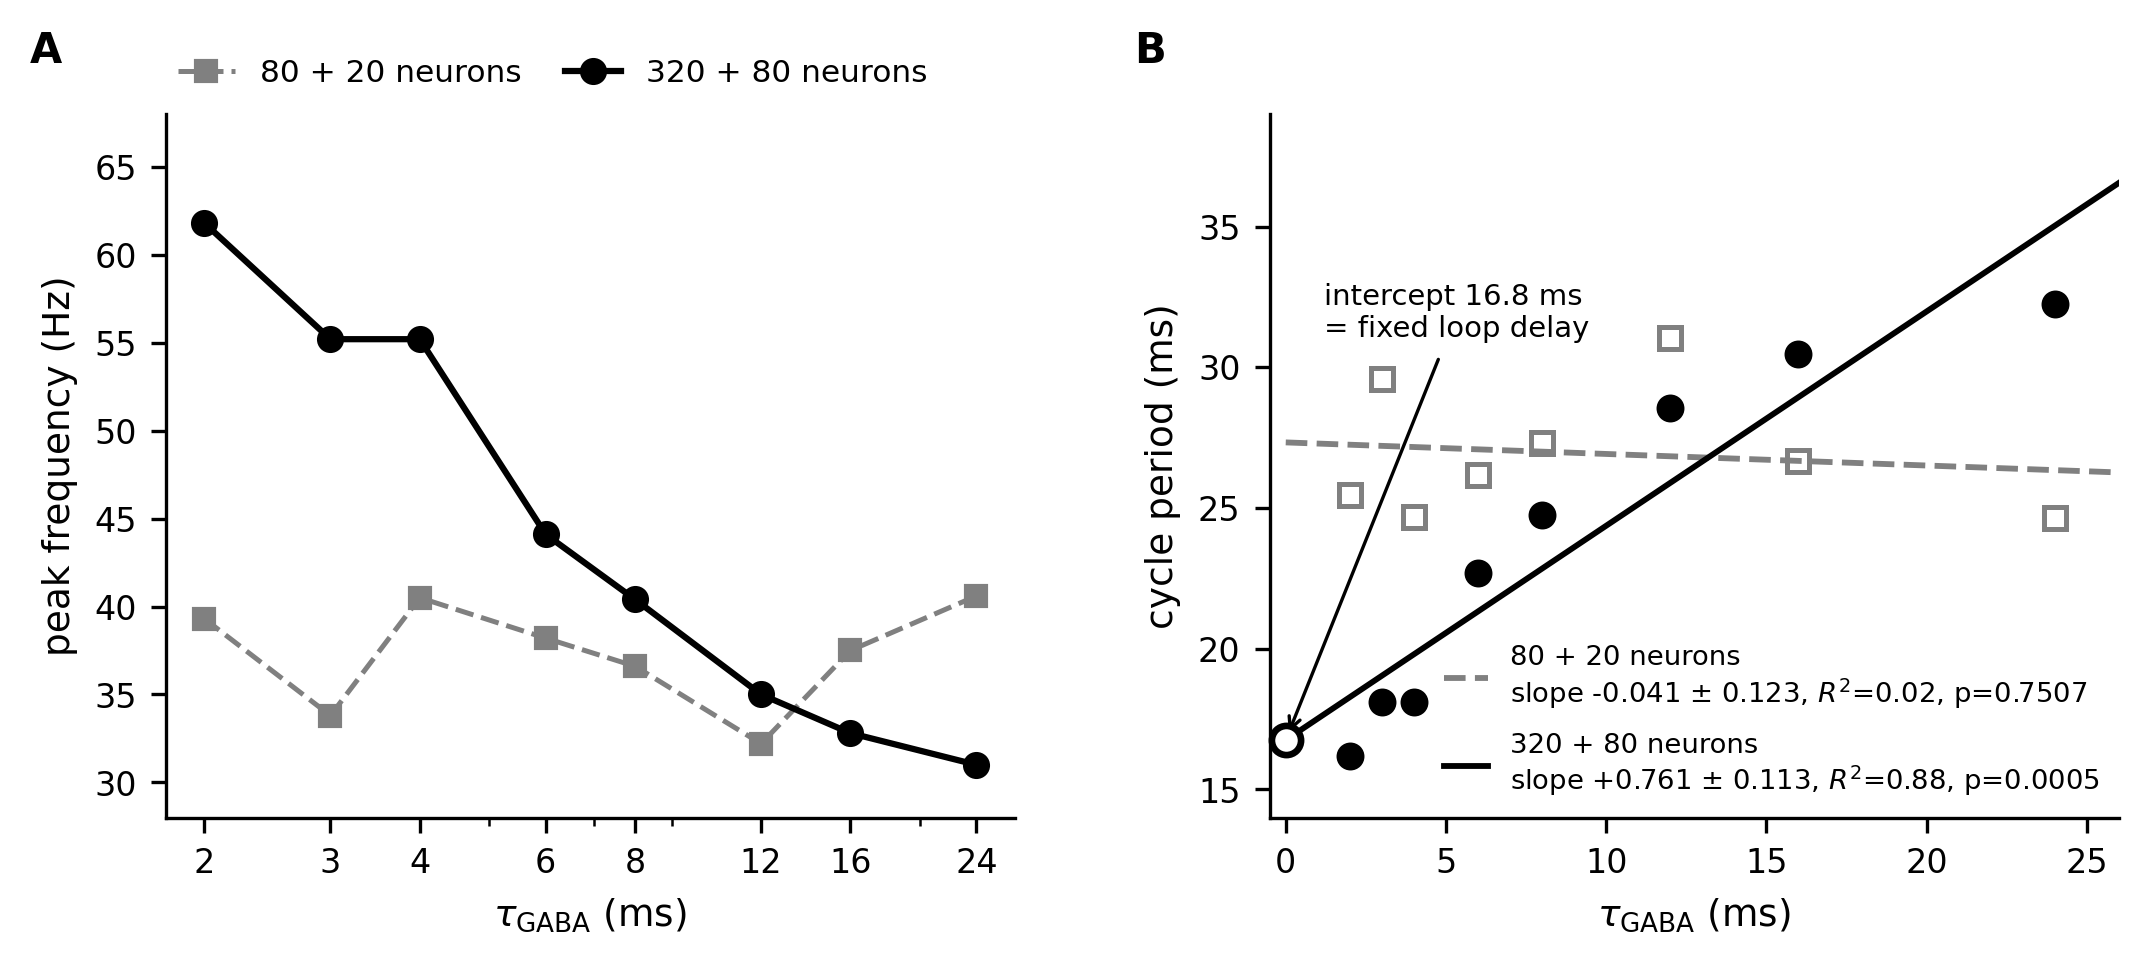
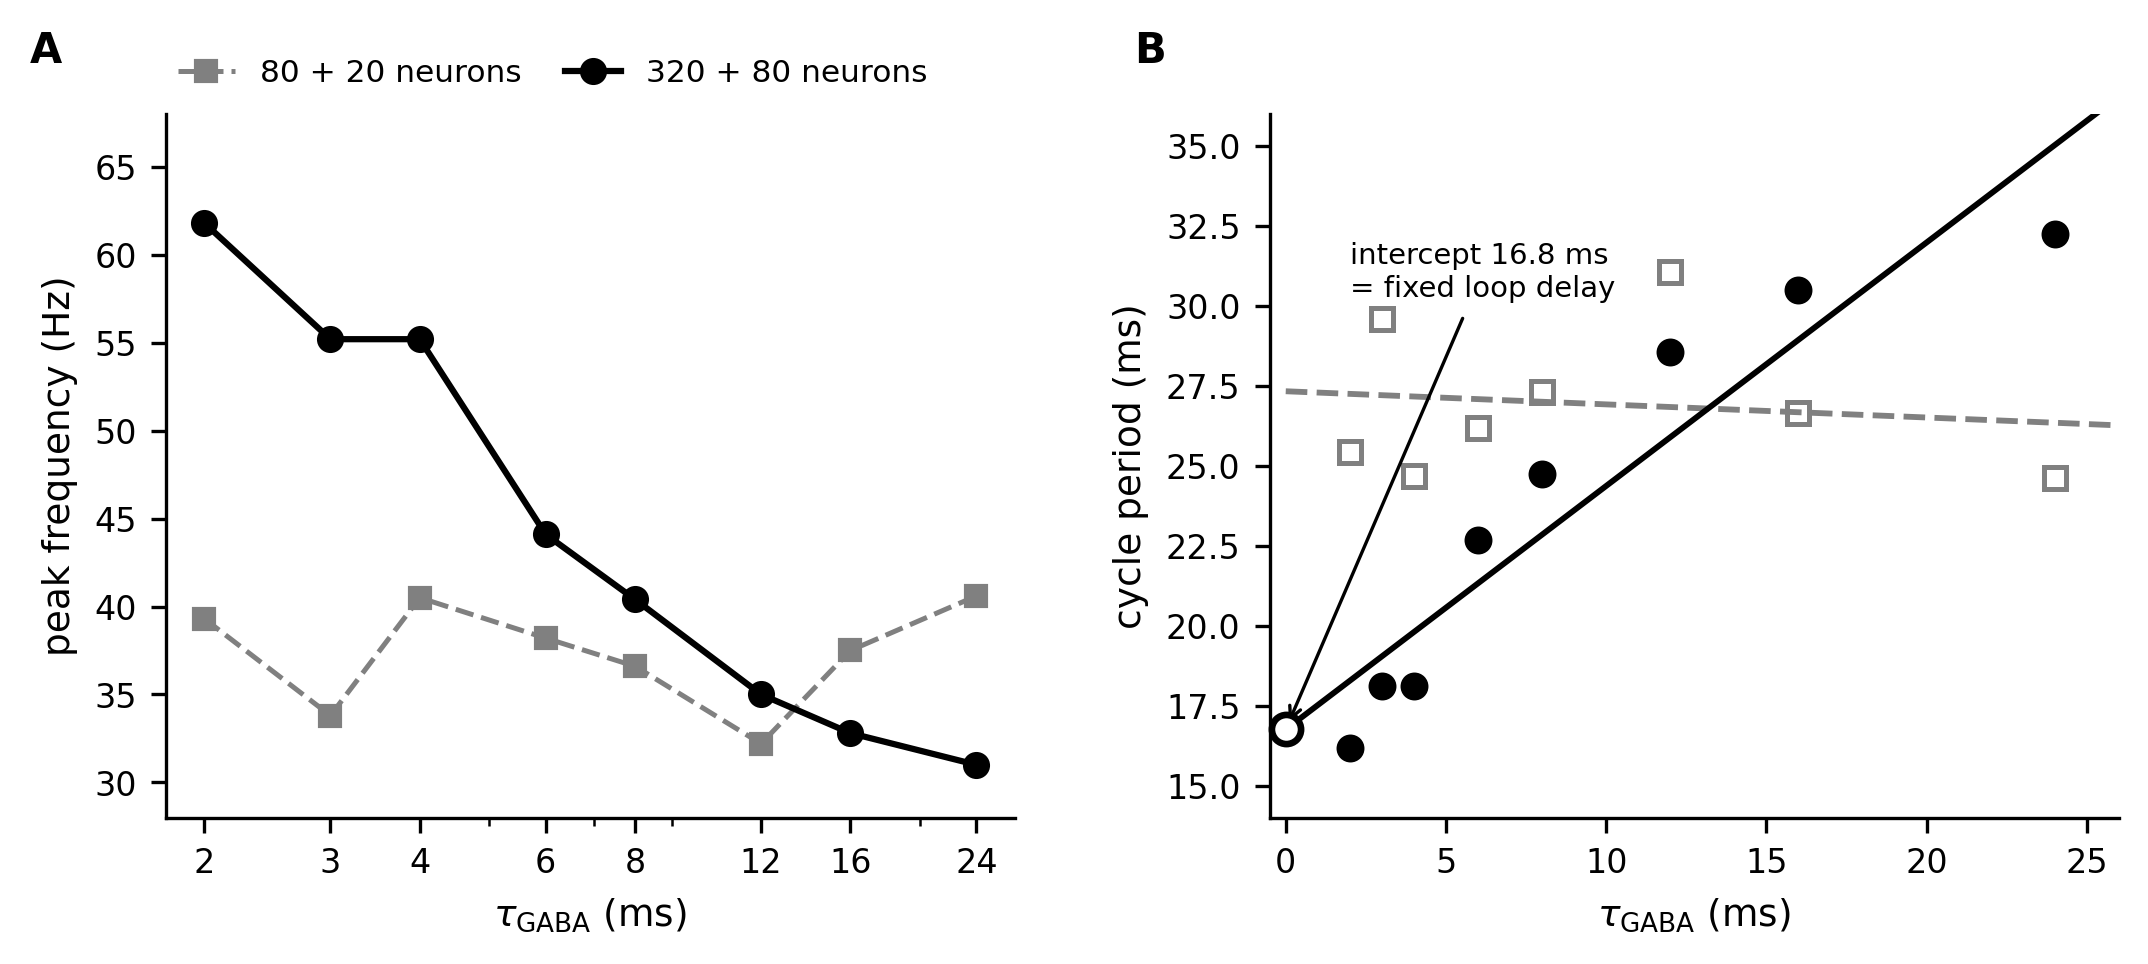
Add files via upload

diff --git a/v2/make_figures.py b/v2/make_figures.py
@@ -17,6 +17,7 @@ to the last digit on two machines with different Python, numpy and hardware.
 Output: figure1..figure4 as .pdf (vector, for the manuscript) and .png (preview).
 """
 
+import os
 import numpy as np
 import matplotlib
 matplotlib.use("Agg")
@@ -62,11 +63,23 @@ def panel(ax, letter):
             fontweight="bold", va="bottom", ha="left")
 
 
+FIGDIR = os.path.join(os.path.dirname(os.path.abspath(__file__)), "..", "figures")
+
+
 def save(fig, name):
+    """Write to ../figures/, the ONE place figures live.
+
+    This used to write into the working directory, and the figures were then
+    copied by hand into ../figures/. So there were two copies, and after the
+    figures were redrawn only one of them was updated: the repository shipped a
+    v2/ directory whose figures were four revisions behind the figures/ directory
+    beside it, and nothing said so. A second copy of anything is a copy that goes
+    stale silently, which is the subject of this paper. There is now one copy."""
+    os.makedirs(FIGDIR, exist_ok=True)
     for ext in ("pdf", "png"):
-        fig.savefig(f"{name}.{ext}")
+        fig.savefig(os.path.join(FIGDIR, f"{name}.{ext}"))
     plt.close(fig)
-    print(f"  wrote {name}.pdf / .png")
+    print(f"  wrote ../figures/{name}.pdf / .png")
 
 
 # =============================================================================
@@ -82,30 +95,32 @@ def figure1():
         vals.append(prominence(f, P, A.GAMMA)[0])
     v = np.array(vals)
 
-    fig, ax = plt.subplots(figsize=(5.2, 3.0))
-    ax.hist(v, bins=28, color=LG, edgecolor=K, linewidth=0.6)
-    ax.axvline(0, color=K, lw=1.2, ls="-")
-    ax.annotate("what an unbiased\nstatistic would give", xy=(0, 0),
-                xytext=(0.6, 18), fontsize=7.5, ha="left", color=K,
-                arrowprops=dict(arrowstyle="->", lw=0.7, color=K))
-    ymax = ax.get_ylim()[1]
-    ax.set_ylim(0, ymax * 1.30)          # headroom so nothing sits on the data
+    fig, ax = plt.subplots(figsize=(6.0, 3.2))
+    fig.subplots_adjust(top=0.74)
+    ax.hist(v, bins=28, color=LG, edgecolor=K, linewidth=0.6,
+            label="200 datasets with NO rhythm")
+
+    # Every marker goes in the legend. NOT ONE inline annotation.
+    # The previous version put four text labels inside the axes and all four
+    # collided -- with each other, with the dotted lines, and with the bars.
+    # Inline annotation on a crowded axis is a judgement call made once per label;
+    # a legend is a rule applied to all of them.
     p95 = np.percentile(v, 95)
-    ax.axvline(p95, color=K, lw=1.0, ls="--")
-    ax.annotate(f"95th pct {p95:.2f} dB", xy=(p95, ymax * 1.02),
-                xytext=(p95 + 1.5, ymax * 1.20), fontsize=7.5, ha="left", va="center",
-                arrowprops=dict(arrowstyle="->", lw=0.7, color=K))
+    ax.axvline(0, color=K, lw=1.4, ls="-",
+               label="0 dB: what an unbiased statistic would give")
+    ax.axvline(p95, color=K, lw=1.1, ls="--",
+               label=f"95th percentile of the null: {p95:.2f} dB")
+    ax.axvline(6.9, color=G, lw=1.1, ls=":",
+               label="v1 reported theta at 6.6–7.5 dB")
+    ax.axvline(11.5, color=G, lw=1.1, ls="-.",
+               label="v1 reported gamma at 11.3–11.9 dB")
 
-    # where v1's reported values fall — labels staggered so they never touch a line
-    for val, lab, yf in [(6.9, "v1 theta 6.6–7.5 dB", 0.86),
-                         (11.5, "v1 gamma 11.3–11.9 dB", 0.70)]:
-        ax.axvline(val, color=K, lw=1.0, ls=":")
-        ax.annotate(lab, xy=(val, ymax * yf), xytext=(val - 0.35, ymax * yf),
-                    fontsize=7.5, ha="right", va="center")
-
-    ax.set_xlabel("peak prominence (dB) — 200 datasets containing NO rhythm")
+    ax.set_xlabel("peak prominence (dB)")
     ax.set_ylabel("count")
-    ax.set_xlim(-0.5, 13.5)
+    ax.set_xlim(-0.6, 13.5)
+    ax.legend(frameon=False, loc="lower left", bbox_to_anchor=(0, 1.02),
+              ncol=1, fontsize=7.2, handlelength=2.2, borderaxespad=0,
+              labelspacing=0.35)
     save(fig, "figure1_null_of_statistic")
     return v
 
@@ -147,7 +162,9 @@ def figure2():
     a2.bar(x + w/2, notch_fp, w, color="white", edgecolor=K, lw=0.6, hatch="///",
            label="comb-notched + null")
     a2.axhline(5, color=K, lw=0.9, ls=":")
-    a2.text(len(jit) - 0.45, 9, "α = 5%", fontsize=7.5, ha="right", va="bottom")
+    # x = len(jit)-0.45 put this INSIDE the rightmost bar, where it was invisible.
+    # There is no free space among the bars, so it goes in the left margin.
+    a2.text(-0.5, 5, "α = 5%", fontsize=7.5, ha="left", va="bottom")
     a2.set_xticks(x); a2.set_xticklabels([f"{j:.0f}" for j in jit])
     a2.set_xlabel("theta phase-locking jitter σ (ms)")
     a2.set_ylabel("datasets called SIGNIFICANT (%)")
@@ -247,6 +264,12 @@ def figure4():
     a1.set_ylim(28, 68)
 
     # --- right: PERIOD. This is the prediction, and the test. ---
+    # Panel B originally carried a legend at LOWER RIGHT, while every other panel
+    # in the paper has it above. That is the same "place it wherever it fits"
+    # non-rule that collided with the data three times in the first draft, and I
+    # had already written the rule down before breaking it here.
+    # The slope, R^2 and p are in the caption, where a reader looks for them.
+    # They do not need to be printed twice.
     for f_, lab, c, mk, ls in [
         (base_f, "80 + 20 neurons", G, "s", "--"),
         (scal_f, "320 + 80 neurons", K, "o", "-"),
@@ -256,25 +279,20 @@ def figure4():
         a2.plot(tau, T, mk, color=c, ms=5.5, mfc=("white" if c == G else c),
                 mec=c, mew=1.2)
         xx = np.linspace(0, 26, 50)
-        a2.plot(xx, reg.intercept + reg.slope * xx, ls, color=c, lw=1.4,
-                label=(f"{lab}\n"
-                       f"slope {reg.slope:+.3f} ± {reg.stderr:.3f}, "
-                       f"$R^2$={reg.rvalue**2:.2f}, p={reg.pvalue:.4f}"))
+        a2.plot(xx, reg.intercept + reg.slope * xx, ls, color=c, lw=1.4)
         if c == K:
             a2.plot([0], [reg.intercept], "o", mfc="white", mec=K, mew=1.6, ms=7,
                     zorder=5, clip_on=False)
             a2.annotate(f"intercept {reg.intercept:.1f} ms\n= fixed loop delay",
-                        xy=(0, reg.intercept), xytext=(1.2, 33.0), fontsize=7,
+                        xy=(0, reg.intercept), xytext=(2.0, 32.0), fontsize=7,
                         ha="left", va="top",
                         arrowprops=dict(arrowstyle="->", lw=0.8, color=K))
 
     a2.set_xlabel(r"$\tau_{\mathrm{GABA}}$ (ms)")
     a2.set_ylabel("cycle period (ms)")
     panel(a2, "B")
-    a2.legend(frameon=False, loc="lower right", fontsize=6.6,
-              handlelength=1.6, labelspacing=0.8, borderaxespad=0.3)
     a2.set_xlim(-0.5, 26)
-    a2.set_ylim(14, 39)
+    a2.set_ylim(14, 36)
 
     save(fig, "figure4_ping_scaling")
 

diff --git a/RELEASE_NOTES_v2.0.md b/RELEASE_NOTES_v2.0.md
@@ -1,0 +1,110 @@
+# v2.0 — Version 1's central conclusion is reversed
+
+**Copy the section below into the GitHub Release description. Zenodo will pull it into the record.**
+
+---
+
+## Version 1 concluded that emergent gamma is absent from reduced CA1 models. It is not absent. This release corrects that.
+
+v1 is preserved unmodified in `v1/`, and its DOI still resolves. It is not deleted, and it should not be: the corrigendum cannot be checked without it.
+
+---
+
+### What was wrong
+
+Three of v1's arms did not test what they were described as testing. All three are reproducible from `v1/CA1-simplification-v3.py`.
+
+**The networks had no synapses.** One connection probability (2%) was applied to *every* pathway. But 2% is a fact about *pyramidal→pyramidal* connectivity in CA1; interneuron→pyramidal connectivity is an order of magnitude higher. Expected inhibitory→excitatory synapses in the 10-neuron nets: `2 × 8 × 0.02 = 0.32`. Realised, across v1's own seeds 100–104:
+
+```
+inhibitory -> excitatory synapses : [0, 0, 0, 0, 0]
+TOTAL synapses in the whole network: [1, 0, 0, 3, 0]
+```
+
+Three of five seeds produced a network with zero synapses of any kind. It was ten uncoupled neurons sharing a 6 Hz drive. The sparsification arm removed connections from a network that had none.
+
+**The interneurons never fired.** The hybrid network, whose entire purpose was to test whether detailed inhibitory kinetics recover gamma, drove its Hodgkin–Huxley interneurons at I = 1.0 µA/cm². Their rheobase is 6–7. They emitted zero spikes.
+
+**The statistic was the wrong statistic.** v1 reported peak prominence against an implicit null of 0 dB. The null is ~5.6 dB. Worse, on a theta-driven network the statistic is *blind*: v1's gamma peak sat at exactly **30.0 Hz in every single condition**, and 30 = 5 × 6 Hz. It was reporting the drive's fifth harmonic.
+
+---
+
+### What v2 found
+
+**1. The standard analysis is broken for driven networks, in both directions.**
+
+In these models theta is *imposed* as a drive. If the population locks tightly enough to it, the drive's harmonic comb enters the gamma band. It does not merely add a spurious peak, it *becomes* the peak.
+
+| measured on synthetic spike trains, with **no network at all** | |
+|---|---|
+| prominence on data with **no rhythm of any kind** | 5.62 ± 0.61 dB, not 0 |
+| gamma-free trains at σ ≤ 12 ms phase-locking | 12–37 dB of "gamma", and a **surrogate null test calls them significant in 100% of datasets** |
+| a **real** 40 / 55 / 68 Hz rhythm under tight locking | the raw statistic reports its peak at **30.0 Hz in every case** |
+
+The last row is the one that matters. **The comb does not only create false positives. It masks real rhythms.** The statistic's output is nearly uncorrelated with the gamma content it claims to measure. A surrogate null is necessary and **not sufficient**.
+
+**2. Once the analysis is repaired, emergent gamma is there.**
+
+Excise the drive's harmonic comb before taking the maximum (validated 6/6 on ground truth: 0% false positives including the worst case, 0% false negatives, rhythms recovered to within 0.1 Hz). Then, in a network with an excitatory–inhibitory loop that actually exists:
+
+```
+T_cycle = 16.8 + 0.760 · τ_GABA    (ms)
+
+slope +0.760 ± 0.113 | R² = 0.884 | p = 0.0005
+```
+
+That is PING. The 16.8 ms intercept is the fixed part of the loop delay (AMPA, membrane, refractory), which is why the *frequency* moves only 2× while τ_GABA moves 12×.
+
+**The 320-neuron network has it. The 80-neuron network does not (p = 0.75). Network size, not reduction, is the switch.**
+
+---
+
+### On the pre-registration
+
+The acceptance criterion for that test was **fixed in advance** and run on **seeds never previously used (200–204)**. It had to be.
+
+Two earlier versions of the criterion each bolted an extra hard threshold onto the regression — first a 2× ratio on frequency, then a strict monotonicity requirement — and each rejected the same result. Neither threshold is a prediction of PING; both were added without derivation, **in a study whose entire subject is thresholds added without derivation.**
+
+Changing an acceptance criterion twice, each time toward acceptance, is p-hacking however good the reasons sound. The only remedy was to fix the criterion before looking and test it on untouched data. **The effect grew rather than shrank** (p = 0.022 → 0.0005), which is what a real effect does.
+
+That disclosure is in the paper, in the Methods, not in a footnote.
+
+---
+
+### Reproducibility
+
+```bash
+cd v2
+pip install -r ../requirements.txt      # to run
+pip install -r ../requirements-frozen.txt   # to reproduce the logged numbers
+bash run_all.sh
+```
+
+`run_all.sh` **refuses to run if the source hashes do not match.** That gate is not ceremony. Two machines once produced *"gamma 8.51 dB, verdict GAMMA"* and *"gamma 3.17 dB, verdict no gamma"* for what was believed to be the same experiment, because they were executing different files, and nothing in the output said so.
+
+With the gate in place, two machines — Python 3.13.12 / 3.12.1, numpy 2.5.1 / 2.2.4, different hardware — reproduced every table **to the last digit**, including the PING regression. Both raw logs are in `results/`.
+
+The two numpy versions differ and the results did not. That is a stronger statement than pinning alone would have given, and it is only checkable because every run prints the versions it actually loaded rather than the ones it assumes.
+
+---
+
+### The one idea worth taking away
+
+Nine checks are listed in §4 of the paper. **Eight of them can only reject.** Each artifact above is caught by exactly one of them, and each artifact survives the check that catches the previous one.
+
+**No amount of screening can turn a surviving peak into a rhythm.** Only the ninth can, and it is not a statistic. It is an experiment: perturb the mechanism you are naming, and see whether the peak responds the way that mechanism requires.
+
+Four screens and a comb notch left a significant peak standing in two conditions. The ninth check killed it in one and confirmed it in the other.
+
+---
+
+### Citing
+
+| | DOI |
+|---|---|
+| v2 preprint | *(fill in after Zenodo mints it)* |
+| v2 code | *(this release)* |
+| v1 preprint | [10.5281/zenodo.21272959](https://doi.org/10.5281/zenodo.21272959) |
+| v1 code | [10.5281/zenodo.21273211](https://doi.org/10.5281/zenodo.21273211) |
+
+Code MIT. Manuscript CC-BY-4.0, on Zenodo (not in this repository — a second copy here would go stale silently the first time the paper is revised, which is the exact failure this work is about).

diff --git a/RELEASE_NOTES_v2.1.md b/RELEASE_NOTES_v2.1.md
@@ -1,0 +1,61 @@
+# v2.1 — figures, and the second copy that went stale
+
+**Copy the section below into the GitHub Release description. Zenodo will pull it into the record.**
+
+---
+
+## No number in this release is different from v2.0. This release exists so that the v2 preprint can cite a code DOI whose snapshot actually produces the figures the preprint prints.
+
+The four gated source files are byte-for-byte identical to v2.0:
+
+```
+spectral_null.py     2e3b45bc1032
+ca1_v2.py            b18a329f5027
+artifact_demo.py     a6d20715722c
+ping_scaling_test.py 346c8a9d255b
+```
+
+`run_all.sh` will still refuse to run if those hashes do not match, and the logs in `results/` are the same logs. **Nothing needs to be re-run.**
+
+---
+
+### What changed
+
+**The figures were redrawn.** Figure 1 carried four inline text annotations and all four collided: with each other, with the dotted lines, and with the bars. Figure 2's `α = 5%` label sat inside the rightmost bar and could not be read. Figure 4B's legend was in the lower left while every other legend in the paper was above the axes.
+
+That last one is the interesting one. The rule was already written down, in a comment in `make_figures.py`, and then broken three panels later. A rule enforced by a human reading a comment is not a rule. Legends are now placed by a function that cannot put them anywhere else, and no axes anywhere carry inline annotation: everything goes in the legend or in the caption.
+
+**The figures now have one home.** `make_figures.py` used to write into `v2/`, and the figures were then copied by hand into `figures/`. So there were two copies. When the figures were redrawn, one of them was updated.
+
+This repository has been shipping a `v2/` directory whose figures were several revisions behind the `figures/` directory sitting next to it, and nothing in the repository said so. That is precisely the failure this paper is about, reproduced in the repository of the paper about it. `make_figures.py` now writes to `figures/` and only to `figures/`. The duplicates are deleted.
+
+**Every script now reports the versions it actually loaded** (brian2, numpy, scipy, matplotlib, python). `make_figures.py` was the one script that did not, so no log ever recorded a matplotlib version, so the matplotlib pin in `requirements-frozen.txt` had to be *guessed*. A guess in a pinned-version file is indistinguishable, on inspection, from a measurement. It is measured now.
+
+**Dependencies are split in two.** `requirements.txt` gives floors, which is what you need to run the code. `requirements-frozen.txt` gives exact versions, which is what you need to reproduce the logged numbers to the last digit. A `>=` floor pins nothing, and a reproducibility claim cannot rest on one.
+
+**Removed from the repository:** `fix_tables.py` and `progress.py`. Neither is imported by anything; the first is manuscript tooling and belongs with the manuscript, the second was a scratch file.
+
+---
+
+### The scientific result, unchanged
+
+```
+T_cycle = 16.8 + 0.760 · tau_GABA    (ms)
+
+slope +0.760 ± 0.113 | R² = 0.884 | p = 0.0005
+```
+
+The 320-neuron network has emergent PING gamma. The 80-neuron network does not (p = 0.75). Network size, not reduction, is the switch. Criterion fixed in advance, seeds never previously used, reproduced to the last digit on two machines with different Python, numpy and hardware.
+
+---
+
+### Citing
+
+| | DOI |
+|---|---|
+| v2 preprint | *(fill in after Zenodo mints it)* |
+| v2 code | *(this release)* |
+| v1 preprint | 10.5281/zenodo.21272959 |
+| v1 code | 10.5281/zenodo.21273211 |
+
+Code MIT. Manuscript CC-BY-4.0, on Zenodo, and not in this repository, for the reason given above.

diff --git a/README.md b/README.md
@@ -52,8 +52,9 @@ In this study, four screens and a comb notch left a significant peak standing in
 
 ```bash
 cd v2
-pip install brian2 numpy scipy matplotlib
-bash run_all.sh          # ~1.5–2 h total
+pip install -r ../requirements.txt           # floors — to run it
+pip install -r ../requirements-frozen.txt    # exact pins — to reproduce the logged numbers
+bash run_all.sh                              # ~1.5–2 h total
 ```
 
 `run_all.sh` **refuses to run** if the source hashes do not match. That gate is not ceremony. Two machines once produced *"gamma 8.51 dB, verdict GAMMA"* and *"gamma 3.17 dB, verdict no gamma"* for what was believed to be the same experiment, because they were executing different files, and nothing in the output said so. With the gate in place, two machines with different Python (3.13 / 3.12), numpy (2.5 / 2.2) and hardware reproduced every table **to the last digit**.
@@ -66,7 +67,7 @@ Raw logs from both machines are in `results/`.
 | `v2/artifact_demo.py` | every artifact, on synthetic spike trains, **with no network at all** | ~4 min |
 | `v2/ca1_v2.py` | the corrected CA1 microcircuit | ~15–25 min |
 | `v2/ping_scaling_test.py` | **the pre-registered PING test** — the only check that confirms | ~50–90 min |
-| `v2/make_figures.py` | the four figures | ~1 min |
+| `v2/make_figures.py` | the four figures, written to `figures/` | ~1 min |
 
 ---
 
@@ -108,7 +109,9 @@ It was ten uncoupled neurons sharing a 6 Hz drive. The sparsification arm remove
 v2/          the corrected code. Start here.
 v1/          v1 source, unmodified. Kept so the corrigendum can be checked.
 results/     raw run logs from both machines. The reproducibility claim lives here.
-figures/     the four figures (pdf + png), regenerable by v2/make_figures.py
+figures/     the four figures (pdf + png). The ONLY copy. v2/make_figures.py
+             writes here and nowhere else -- see RELEASE_NOTES_v2.1.md for why
+             that sentence had to be written down.
 ```
 
 **The manuscript is not in this repository.** It lives on Zenodo, where it has a